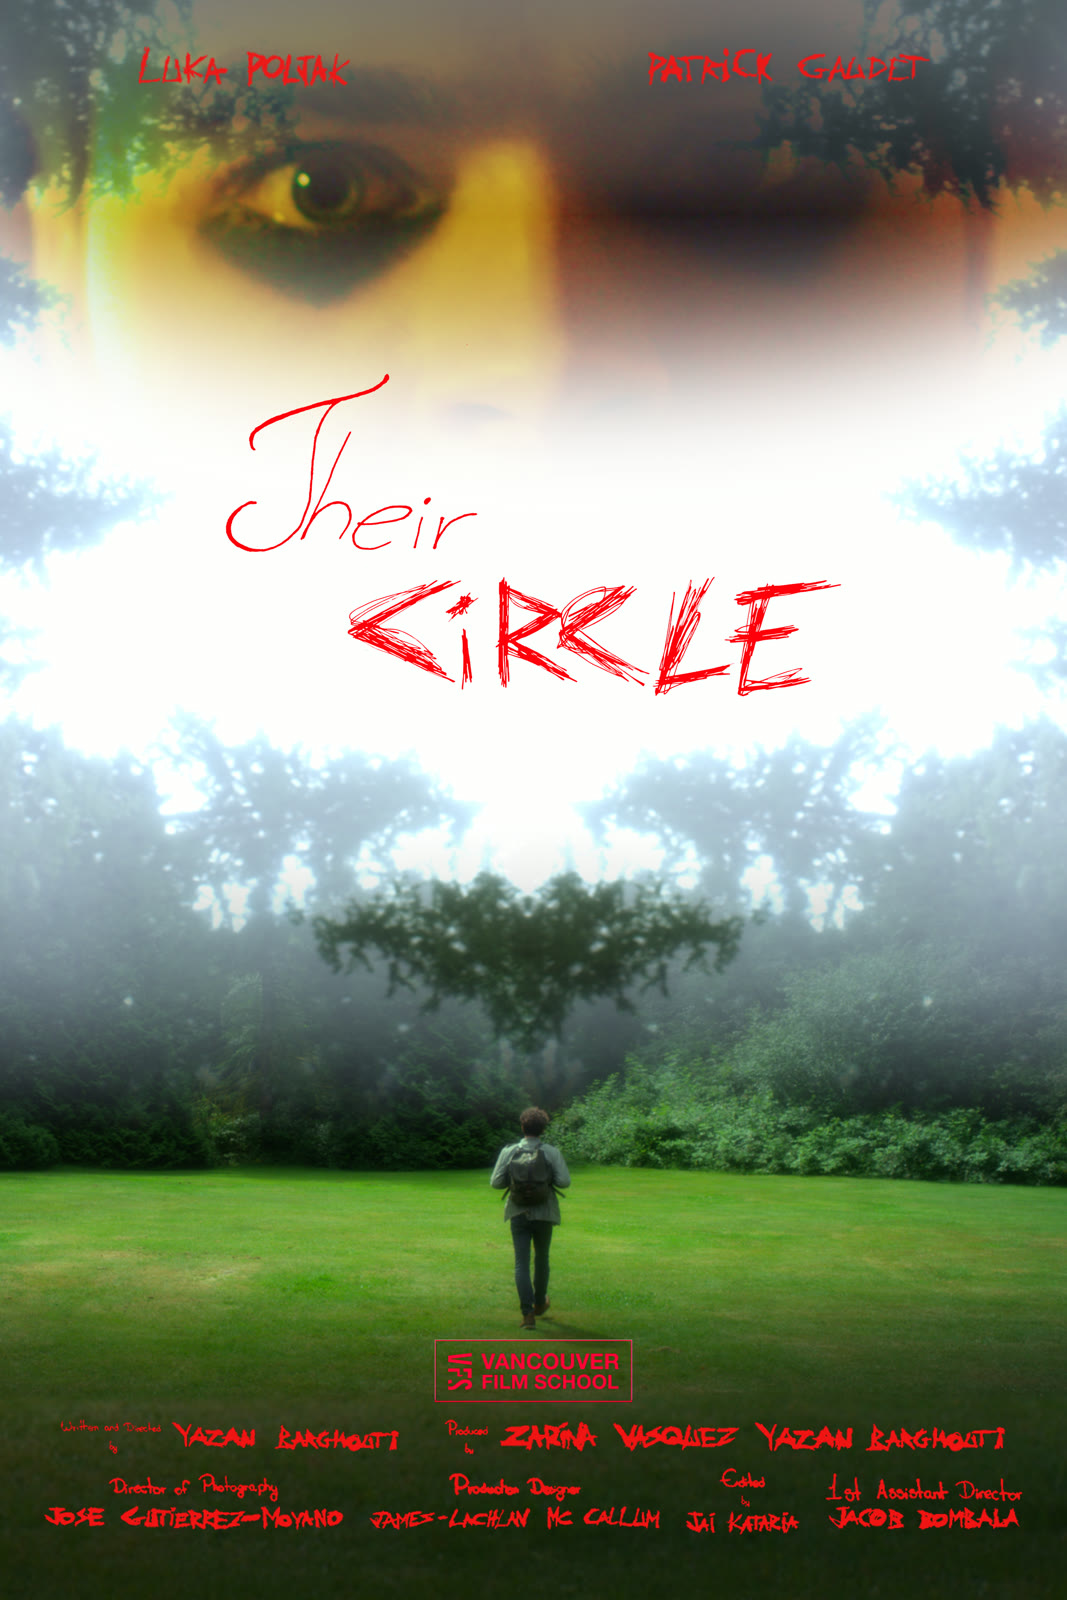
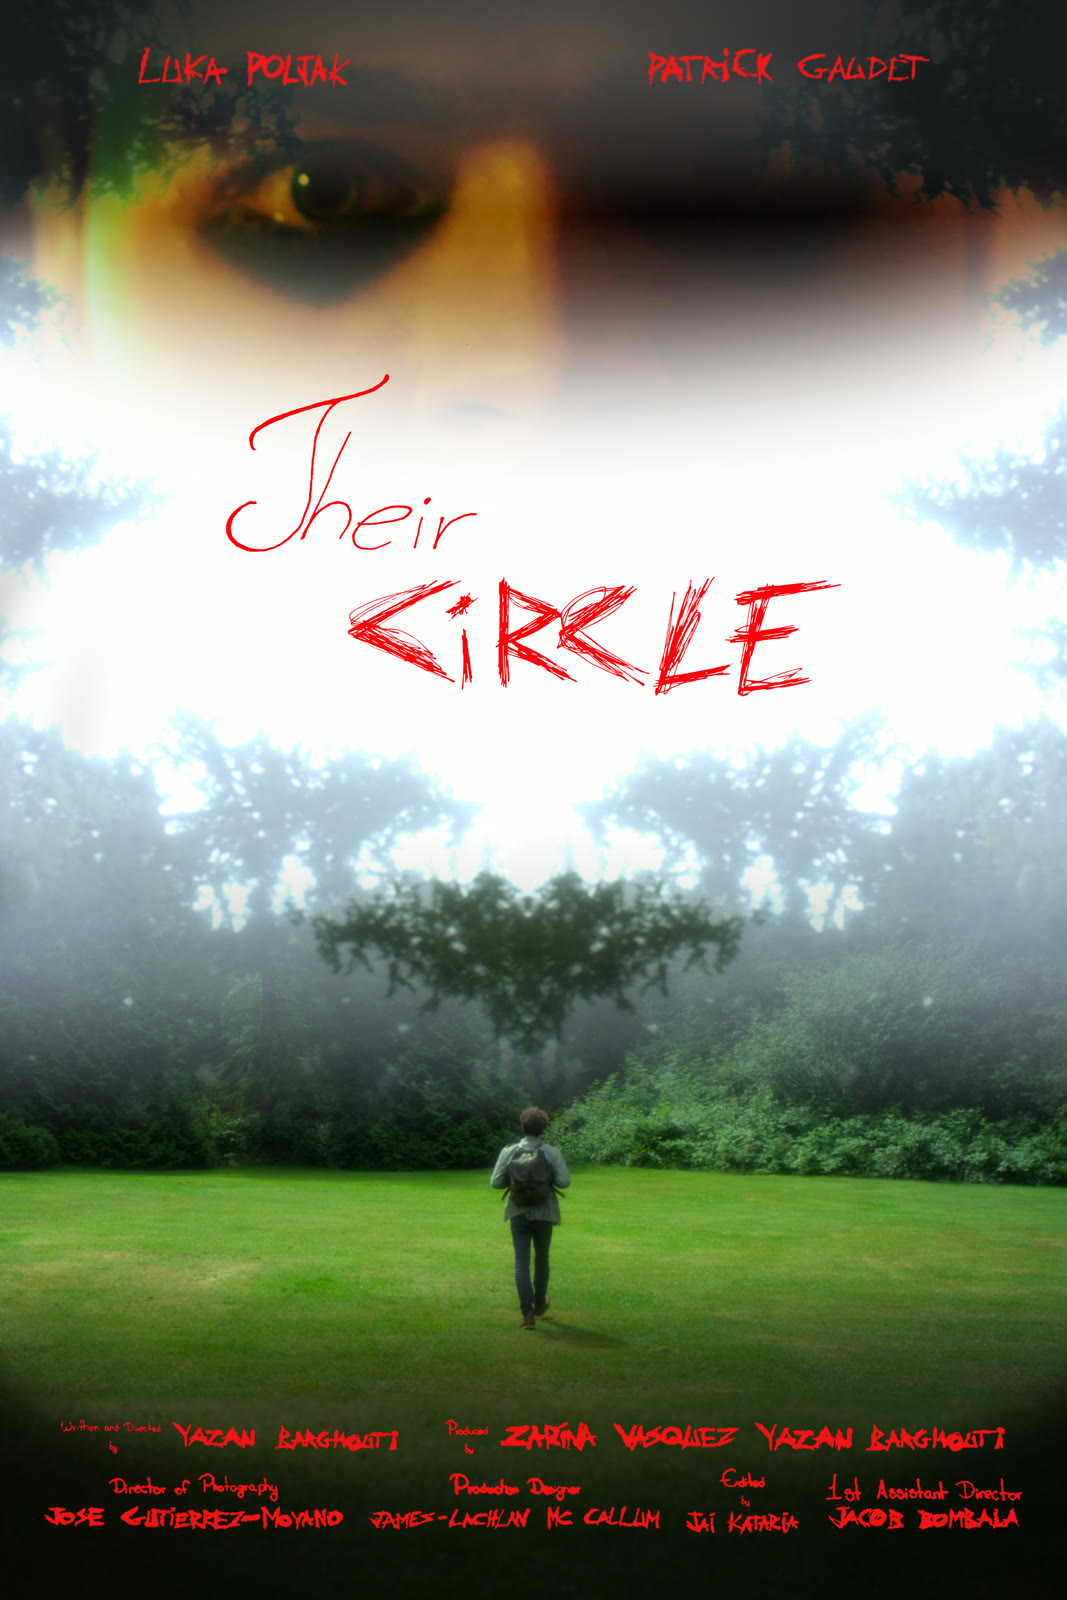
Videos de Cine/Post: play chico abajo a la izquierda en vez de tapar la miniatura completa
Tambien se actualiza el poster de Their Circle (nueva version con nombres de reparto).

diff --git a/assets/css/site.css b/assets/css/site.css
@@ -297,15 +297,26 @@ a.short:hover .short-art img, button.short:hover .short-art img{ transform:scale
 .vthumb.is-loaded{ opacity:.86; }
 .vcard:hover .vthumb.is-loaded{ opacity:1; transform:scale(1.04); }
 .vplay{
-  position:absolute; inset:0; z-index:1; display:flex; align-items:center; justify-content:center;
-  background:linear-gradient(180deg,rgba(0,0,0,.05),rgba(0,0,0,.62) 80%);
+  position:absolute; left:10px; bottom:38px; z-index:2;
+  width:32px; height:32px; border-radius:50%;
+  display:flex; align-items:center; justify-content:center;
+  background:rgba(10,10,10,.55); border:1px solid rgba(255,255,255,.35);
+  backdrop-filter:blur(2px);
+  transition:transform .25s ease, border-color .25s ease, background .25s ease;
 }
-.vplay svg{ width:44px; height:44px; filter:drop-shadow(0 2px 10px rgba(0,0,0,.7)); transition:transform .3s ease; }
-.vcard:hover .vplay svg{ transform:scale(1.12); }
+.vplay svg{ width:13px; height:13px; filter:drop-shadow(0 1px 4px rgba(0,0,0,.6)); }
+.vcard:hover .vplay{ transform:scale(1.12); border-color:var(--gold); background:rgba(10,10,10,.75); }
 .vcap{
   position:absolute; left:12px; right:12px; bottom:10px; z-index:2;
   font-size:12px; letter-spacing:.03em; text-align:left;
   text-shadow:0 2px 8px rgba(0,0,0,.85);
+}
+/* leve sombra abajo, sólo lo justo para que el título y el play se lean
+   sobre cualquier miniatura, sin oscurecer el resto del thumbnail */
+.vcard::after{
+  content:''; position:absolute; left:0; right:0; bottom:0; height:56%; z-index:1;
+  background:linear-gradient(180deg,rgba(0,0,0,0),rgba(0,0,0,.55) 100%);
+  pointer-events:none;
 }
 .vcard iframe{ position:absolute; inset:0; width:100%; height:100%; border:0; }
 

diff --git a/contacto.html b/contacto.html
@@ -9,7 +9,7 @@
 <link rel="preconnect" href="https://fonts.googleapis.com">
 <link rel="preconnect" href="https://fonts.gstatic.com" crossorigin>
 <link href="https://fonts.googleapis.com/css2?family=Bricolage+Grotesque:opsz,wght@12..96,200..800&display=swap" rel="stylesheet">
-<link rel="stylesheet" href="assets/css/site.css?v=1788220588">
+<link rel="stylesheet" href="assets/css/site.css?v=1788222592">
 </head>
 <body class="page has-bg">
 
@@ -109,9 +109,9 @@
   </span>
 </footer>
 
-<script src="assets/js/i18n.js?v=1788220588"></script>
-<script src="assets/js/data.js?v=1788220588"></script>
-<script src="assets/js/site.js?v=1788220588"></script>
+<script src="assets/js/i18n.js?v=1788222592"></script>
+<script src="assets/js/data.js?v=1788222592"></script>
+<script src="assets/js/site.js?v=1788222592"></script>
 <script>document.getElementById('year').textContent = new Date().getFullYear();</script>
 <script>
 /* Envío por AJAX a Netlify (si el sitio ya está desplegado ahí);

diff --git a/cine.html b/cine.html
@@ -9,7 +9,7 @@
 <link rel="preconnect" href="https://fonts.googleapis.com">
 <link rel="preconnect" href="https://fonts.gstatic.com" crossorigin>
 <link href="https://fonts.googleapis.com/css2?family=Bricolage+Grotesque:opsz,wght@12..96,200..800&display=swap" rel="stylesheet">
-<link rel="stylesheet" href="assets/css/site.css?v=1788220588">
+<link rel="stylesheet" href="assets/css/site.css?v=1788222592">
 </head>
 <body class="page">
 
@@ -106,9 +106,9 @@
 </footer>
 
 <script src="https://player.vimeo.com/api/player.js"></script>
-<script src="assets/js/i18n.js?v=1788220588"></script>
-<script src="assets/js/data.js?v=1788220588"></script>
-<script src="assets/js/site.js?v=1788220588"></script>
+<script src="assets/js/i18n.js?v=1788222592"></script>
+<script src="assets/js/data.js?v=1788222592"></script>
+<script src="assets/js/site.js?v=1788222592"></script>
 <script>document.getElementById('year').textContent = new Date().getFullYear();</script>
 </body>
 </html>

diff --git a/index.html b/index.html
@@ -9,7 +9,7 @@
 <link rel="preconnect" href="https://fonts.googleapis.com">
 <link rel="preconnect" href="https://fonts.gstatic.com" crossorigin>
 <link href="https://fonts.googleapis.com/css2?family=Bricolage+Grotesque:opsz,wght@12..96,200..800&display=swap" rel="stylesheet">
-<link rel="stylesheet" href="assets/css/site.css?v=1788220588">
+<link rel="stylesheet" href="assets/css/site.css?v=1788222592">
 </head>
 <body class="home">
 
@@ -79,8 +79,8 @@
   <span class="right hint-mobile" data-i18n="home.hint.mobile">El video se reproduce al hacer scroll</span>
 </footer>
 
-<script src="assets/js/i18n.js?v=1788220588"></script>
-<script src="assets/js/data.js?v=1788220588"></script>
-<script src="assets/js/site.js?v=1788220588"></script>
+<script src="assets/js/i18n.js?v=1788222592"></script>
+<script src="assets/js/data.js?v=1788222592"></script>
+<script src="assets/js/site.js?v=1788222592"></script>
 </body>
 </html>

diff --git a/sobre.html b/sobre.html
@@ -9,7 +9,7 @@
 <link rel="preconnect" href="https://fonts.googleapis.com">
 <link rel="preconnect" href="https://fonts.gstatic.com" crossorigin>
 <link href="https://fonts.googleapis.com/css2?family=Bricolage+Grotesque:opsz,wght@12..96,200..800&display=swap" rel="stylesheet">
-<link rel="stylesheet" href="assets/css/site.css?v=1788220588">
+<link rel="stylesheet" href="assets/css/site.css?v=1788222592">
 </head>
 <body class="page has-bg">
 
@@ -92,9 +92,9 @@
   </span>
 </footer>
 
-<script src="assets/js/i18n.js?v=1788220588"></script>
-<script src="assets/js/data.js?v=1788220588"></script>
-<script src="assets/js/site.js?v=1788220588"></script>
+<script src="assets/js/i18n.js?v=1788222592"></script>
+<script src="assets/js/data.js?v=1788222592"></script>
+<script src="assets/js/site.js?v=1788222592"></script>
 <script>document.getElementById('year').textContent = new Date().getFullYear();</script>
 </body>
 </html>

diff --git a/its-time-for-dinner.html b/its-time-for-dinner.html
@@ -9,7 +9,7 @@
 <link rel="preconnect" href="https://fonts.googleapis.com">
 <link rel="preconnect" href="https://fonts.gstatic.com" crossorigin>
 <link href="https://fonts.googleapis.com/css2?family=Bricolage+Grotesque:opsz,wght@12..96,200..800&display=swap" rel="stylesheet">
-<link rel="stylesheet" href="assets/css/site.css?v=1788220588">
+<link rel="stylesheet" href="assets/css/site.css?v=1788222592">
 </head>
 <body class="page">
 
@@ -138,9 +138,9 @@
   </span>
 </footer>
 
-<script src="assets/js/i18n.js?v=1788220588"></script>
-<script src="assets/js/data.js?v=1788220588"></script>
-<script src="assets/js/site.js?v=1788220588"></script>
+<script src="assets/js/i18n.js?v=1788222592"></script>
+<script src="assets/js/data.js?v=1788222592"></script>
+<script src="assets/js/site.js?v=1788222592"></script>
 <script>document.getElementById('year').textContent = new Date().getFullYear();</script>
 </body>
 </html>

diff --git a/los-idiotas.html b/los-idiotas.html
@@ -9,7 +9,7 @@
 <link rel="preconnect" href="https://fonts.googleapis.com">
 <link rel="preconnect" href="https://fonts.gstatic.com" crossorigin>
 <link href="https://fonts.googleapis.com/css2?family=Bricolage+Grotesque:opsz,wght@12..96,200..800&display=swap" rel="stylesheet">
-<link rel="stylesheet" href="assets/css/site.css?v=1788220588">
+<link rel="stylesheet" href="assets/css/site.css?v=1788222592">
 </head>
 <body class="page">
 
@@ -145,9 +145,9 @@
   </span>
 </footer>
 
-<script src="assets/js/i18n.js?v=1788220588"></script>
-<script src="assets/js/data.js?v=1788220588"></script>
-<script src="assets/js/site.js?v=1788220588"></script>
+<script src="assets/js/i18n.js?v=1788222592"></script>
+<script src="assets/js/data.js?v=1788222592"></script>
+<script src="assets/js/site.js?v=1788222592"></script>
 <script>document.getElementById('year').textContent = new Date().getFullYear();</script>
 </body>
 </html>

diff --git a/no-drugs-no-dancing.html b/no-drugs-no-dancing.html
@@ -9,7 +9,7 @@
 <link rel="preconnect" href="https://fonts.googleapis.com">
 <link rel="preconnect" href="https://fonts.gstatic.com" crossorigin>
 <link href="https://fonts.googleapis.com/css2?family=Bricolage+Grotesque:opsz,wght@12..96,200..800&display=swap" rel="stylesheet">
-<link rel="stylesheet" href="assets/css/site.css?v=1788220588">
+<link rel="stylesheet" href="assets/css/site.css?v=1788222592">
 </head>
 <body class="page">
 
@@ -138,9 +138,9 @@
   </span>
 </footer>
 
-<script src="assets/js/i18n.js?v=1788220588"></script>
-<script src="assets/js/data.js?v=1788220588"></script>
-<script src="assets/js/site.js?v=1788220588"></script>
+<script src="assets/js/i18n.js?v=1788222592"></script>
+<script src="assets/js/data.js?v=1788222592"></script>
+<script src="assets/js/site.js?v=1788222592"></script>
 <script>document.getElementById('year').textContent = new Date().getFullYear();</script>
 </body>
 </html>

diff --git a/their-circle.html b/their-circle.html
@@ -9,7 +9,7 @@
 <link rel="preconnect" href="https://fonts.googleapis.com">
 <link rel="preconnect" href="https://fonts.gstatic.com" crossorigin>
 <link href="https://fonts.googleapis.com/css2?family=Bricolage+Grotesque:opsz,wght@12..96,200..800&display=swap" rel="stylesheet">
-<link rel="stylesheet" href="assets/css/site.css?v=1788220588">
+<link rel="stylesheet" href="assets/css/site.css?v=1788222592">
 </head>
 <body class="page">
 
@@ -138,9 +138,9 @@
   </span>
 </footer>
 
-<script src="assets/js/i18n.js?v=1788220588"></script>
-<script src="assets/js/data.js?v=1788220588"></script>
-<script src="assets/js/site.js?v=1788220588"></script>
+<script src="assets/js/i18n.js?v=1788222592"></script>
+<script src="assets/js/data.js?v=1788222592"></script>
+<script src="assets/js/site.js?v=1788222592"></script>
 <script>document.getElementById('year').textContent = new Date().getFullYear();</script>
 </body>
 </html>

diff --git a/ximoquetza.html b/ximoquetza.html
@@ -9,7 +9,7 @@
 <link rel="preconnect" href="https://fonts.googleapis.com">
 <link rel="preconnect" href="https://fonts.gstatic.com" crossorigin>
 <link href="https://fonts.googleapis.com/css2?family=Bricolage+Grotesque:opsz,wght@12..96,200..800&display=swap" rel="stylesheet">
-<link rel="stylesheet" href="assets/css/site.css?v=1788220588">
+<link rel="stylesheet" href="assets/css/site.css?v=1788222592">
 </head>
 <body class="page">
 
@@ -135,9 +135,9 @@
   </span>
 </footer>
 
-<script src="assets/js/i18n.js?v=1788220588"></script>
-<script src="assets/js/data.js?v=1788220588"></script>
-<script src="assets/js/site.js?v=1788220588"></script>
+<script src="assets/js/i18n.js?v=1788222592"></script>
+<script src="assets/js/data.js?v=1788222592"></script>
+<script src="assets/js/site.js?v=1788222592"></script>
 <script>document.getElementById('year').textContent = new Date().getFullYear();</script>
 </body>
 </html>

diff --git a/fotografia.html b/fotografia.html
@@ -9,7 +9,7 @@
 <link rel="preconnect" href="https://fonts.googleapis.com">
 <link rel="preconnect" href="https://fonts.gstatic.com" crossorigin>
 <link href="https://fonts.googleapis.com/css2?family=Bricolage+Grotesque:opsz,wght@12..96,200..800&display=swap" rel="stylesheet">
-<link rel="stylesheet" href="assets/css/site.css?v=1788220588">
+<link rel="stylesheet" href="assets/css/site.css?v=1788222592">
 </head>
 <body class="page">
 
@@ -66,9 +66,9 @@
   </span>
 </footer>
 
-<script src="assets/js/i18n.js?v=1788220588"></script>
-<script src="assets/js/data.js?v=1788220588"></script>
-<script src="assets/js/site.js?v=1788220588"></script>
+<script src="assets/js/i18n.js?v=1788222592"></script>
+<script src="assets/js/data.js?v=1788222592"></script>
+<script src="assets/js/site.js?v=1788222592"></script>
 <script>document.getElementById('year').textContent = new Date().getFullYear();</script>
 </body>
 </html>

diff --git a/post.html b/post.html
@@ -9,7 +9,7 @@
 <link rel="preconnect" href="https://fonts.googleapis.com">
 <link rel="preconnect" href="https://fonts.gstatic.com" crossorigin>
 <link href="https://fonts.googleapis.com/css2?family=Bricolage+Grotesque:opsz,wght@12..96,200..800&display=swap" rel="stylesheet">
-<link rel="stylesheet" href="assets/css/site.css?v=1788220588">
+<link rel="stylesheet" href="assets/css/site.css?v=1788222592">
 </head>
 <body class="page">
 
@@ -89,9 +89,9 @@
   </span>
 </footer>
 
-<script src="assets/js/i18n.js?v=1788220588"></script>
-<script src="assets/js/data.js?v=1788220588"></script>
-<script src="assets/js/site.js?v=1788220588"></script>
+<script src="assets/js/i18n.js?v=1788222592"></script>
+<script src="assets/js/data.js?v=1788222592"></script>
+<script src="assets/js/site.js?v=1788222592"></script>
 <script>document.getElementById('year').textContent = new Date().getFullYear();</script>
 </body>
 </html>
